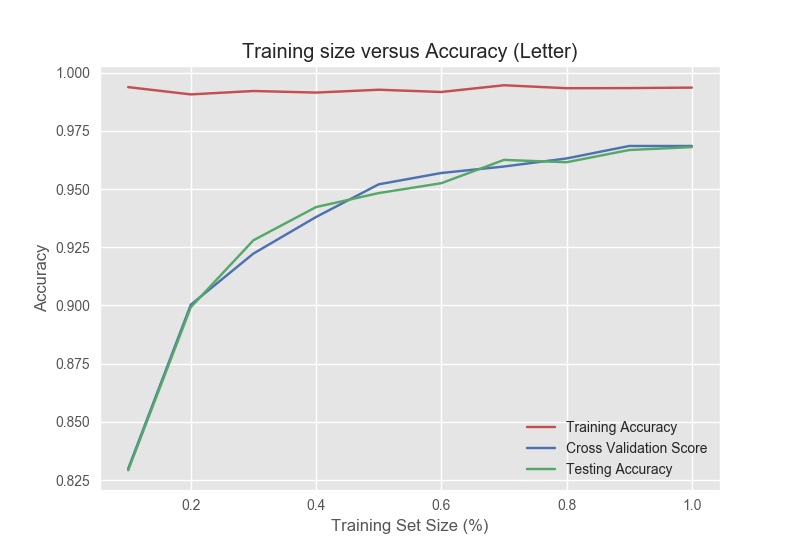
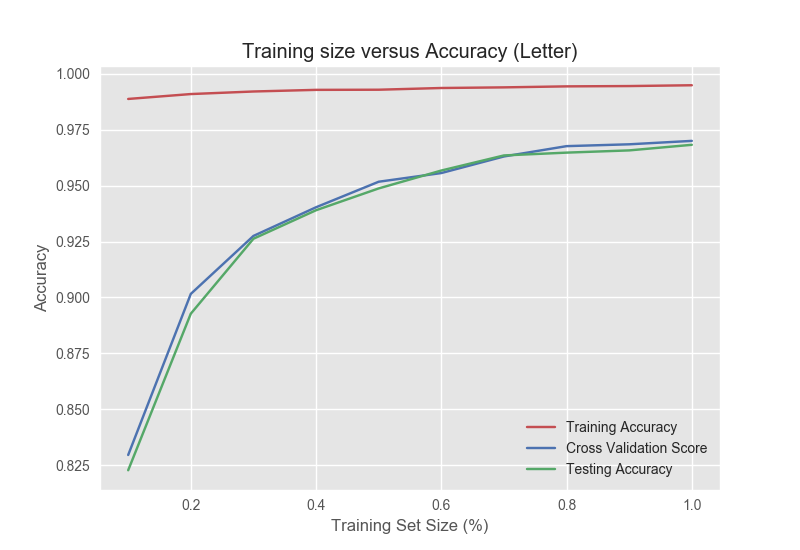
new graphs

diff --git a/nursery_svm.py b/nursery_svm.py
@@ -45,7 +45,6 @@ for kernel in kernels:
         clf = svm.SVC(kernel=kernel, random_state=1)
         
     clf.fit(train_x, train_y)
-    clf.predict(test_x)
     print kernel
 
     training_accuracy.append(accuracy_score(train_y, clf.predict(train_x)))
@@ -53,6 +52,7 @@ for kernel in kernels:
     validation_accuracy.append(cv)
     test_accuracy.append(accuracy_score(test_y, clf.predict(test_x)))
 
+kernels = ['linear','poly (deg:3)', 'rbf']
 temp_x = arange(3)
 fig = plt.figure()
 plt.style.use('ggplot')
@@ -83,12 +83,9 @@ for s in training_size:
     percent_train_y = temp_train[label]
     percent_train_x = temp_train[[x for x in train.columns if label not in x]]
 
-    print percent_train_x.shape
-
     clf.fit(percent_train_x, percent_train_y)
 
-    print 'Size: ', s, '%'
-    print accuracy_score(test_y, clf.predict(test_x))
+    print 'Size: ', s
 
     training_accuracy.append(accuracy_score(percent_train_y, clf.predict(percent_train_x)))
     cv = cross_val_score(clf, percent_train_x, percent_train_y, cv=7).mean()

diff --git a/letter_svm.py b/letter_svm.py
@@ -44,7 +44,6 @@ for kernel in kernels:
         clf = svm.SVC(kernel=kernel, random_state=1)
         
     clf.fit(train_x, train_y)
-    clf.predict(test_x)
     print kernel
 
     training_accuracy.append(accuracy_score(train_y, clf.predict(train_x)))
@@ -52,6 +51,7 @@ for kernel in kernels:
     validation_accuracy.append(cv)
     test_accuracy.append(accuracy_score(test_y, clf.predict(test_x)))
 
+kernels = ['linear','poly (deg:3)', 'rbf']
 temp_x = arange(3)
 fig = plt.figure()
 plt.style.use('ggplot')
@@ -82,12 +82,9 @@ for s in training_size:
     percent_train_y = temp_train[label]
     percent_train_x = temp_train[[x for x in train.columns if label not in x]]
 
-    print percent_train_x.shape
-
     clf.fit(percent_train_x, percent_train_y)
 
     print 'Size: ', s, '%'
-    print accuracy_score(test_y, clf.predict(test_x))
 
     training_accuracy.append(accuracy_score(percent_train_y, clf.predict(percent_train_x)))
     cv = cross_val_score(clf, percent_train_x, percent_train_y, cv=7).mean()

diff --git a/letter_knn.py b/letter_knn.py
@@ -37,7 +37,7 @@ k_values = range(1,35,2)
 for k in k_values:
 
     # Define the classifier
-    clf = neighbors.KNeighborsClassifier(k, weights='distance', random_state=1)
+    clf = neighbors.KNeighborsClassifier(k)
     clf.fit(train_x, train_y)
 
     print 'K: ', k
@@ -71,7 +71,7 @@ training_size = [0.1, 0.2, 0.3, 0.4, 0.5, 0.6, 0.7, 0.8, 0.9]
 print "--- KNN ---"
 for s in training_size:
     # Define the classifier
-    clf = neighbors.KNeighborsClassifier(k, weights='distance', random_state=1)
+    clf = neighbors.KNeighborsClassifier(k)
     
     temp_train, _ = train_test_split(train, test_size= 1 - s, random_state=1)
 
@@ -91,7 +91,7 @@ for s in training_size:
     validation_accuracy.append(cv)
     test_accuracy.append(accuracy_score(test_y, clf.predict(test_x)))
 
-clf = neighbors.KNeighborsClassifier(k, weights='distance', random_state=1)
+clf = neighbors.KNeighborsClassifier(k)
 clf.fit(train_x, train_y)
 
 training_accuracy.append(accuracy_score(train_y, clf.predict(train_x)))

diff --git a/letter_boosting.py b/letter_boosting.py
@@ -33,14 +33,13 @@ test_x = test[[x for x in test.columns if label not in x]]
 training_accuracy = []
 validation_accuracy = []
 test_accuracy = []
-n_estimators = range(1,100)
+n_estimators = range(1,30)
 
 # For N estimators in Boosting
 for n in n_estimators:
     clf = AdaBoostClassifier(n_estimators=n, random_state=1)
-        
+
     clf.fit(train_x, train_y)
-    clf.predict(test_x)
     print n
 
     training_accuracy.append(accuracy_score(train_y, clf.predict(train_x)))

diff --git a/nursery_knn.py b/nursery_knn.py
@@ -89,7 +89,7 @@ for s in training_size:
     validation_accuracy.append(cv)
     test_accuracy.append(accuracy_score(test_y, clf.predict(test_x)))
 
-clf = neighbors.KNeighborsClassifier(k, weights='distance', random_state=1)
+clf = neighbors.KNeighborsClassifier(k)
 clf.fit(train_x, train_y)
 
 training_accuracy.append(accuracy_score(train_y, clf.predict(train_x)))

diff --git a/nursery_boosting.py b/nursery_boosting.py
@@ -41,7 +41,6 @@ for n in n_estimators:
     clf = AdaBoostClassifier(n_estimators=n, random_state=1)
         
     clf.fit(train_x, train_y)
-    clf.predict(test_x)
 
     print n
 
